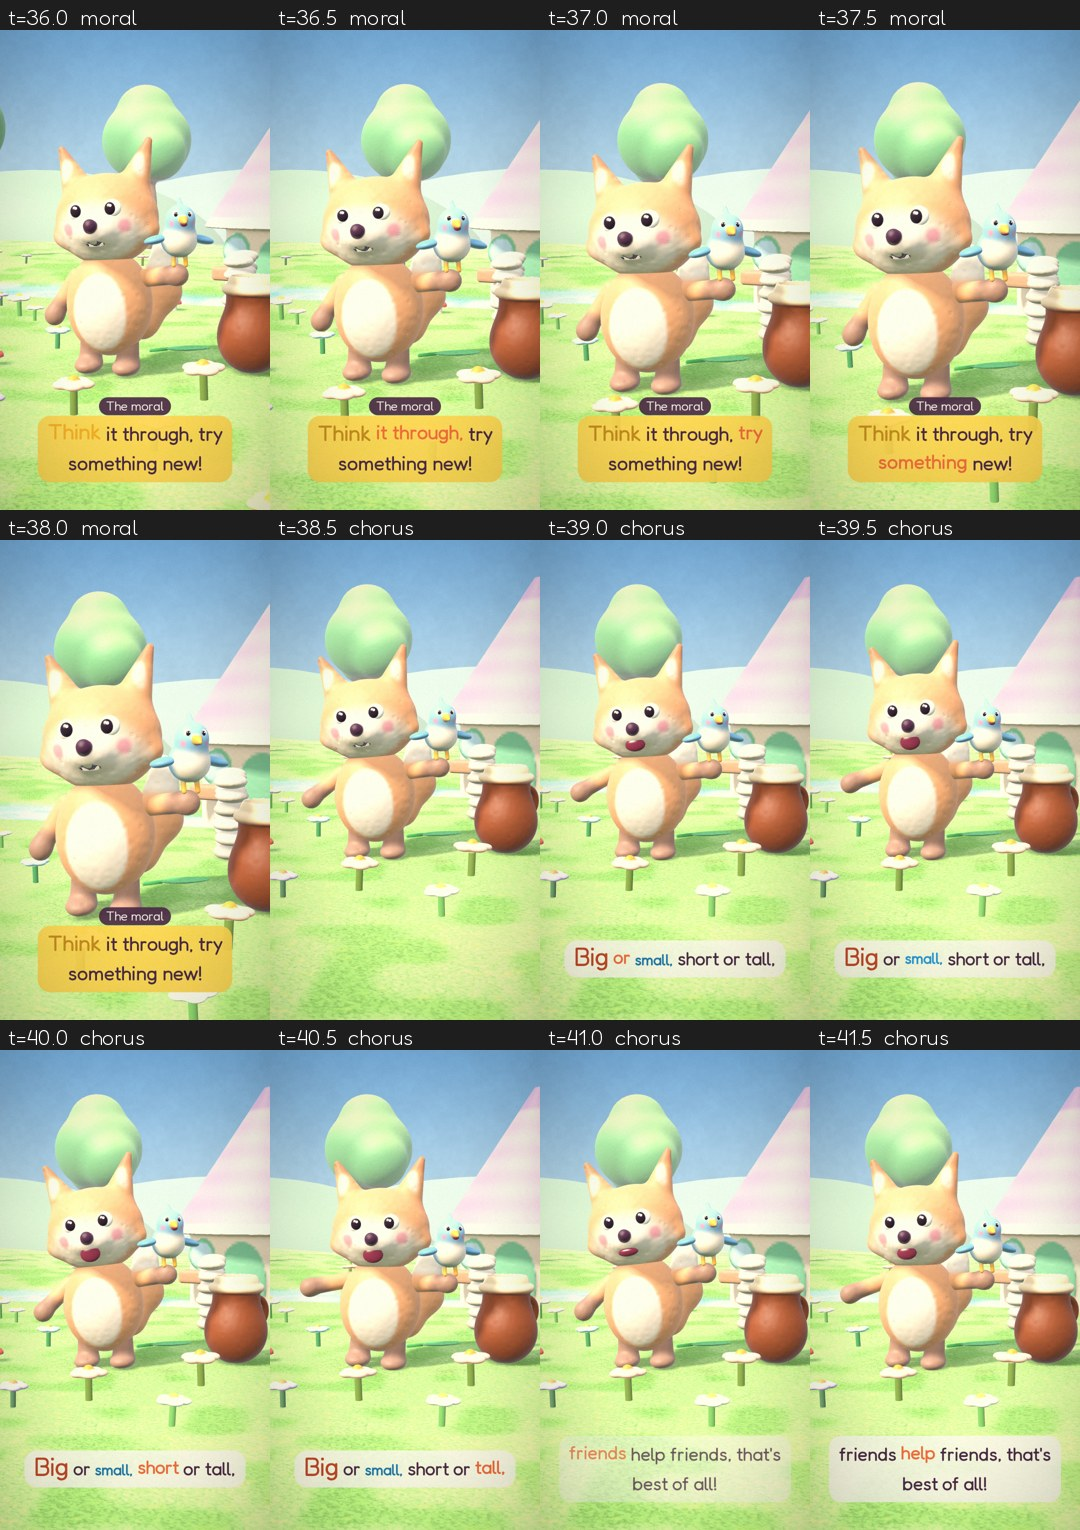
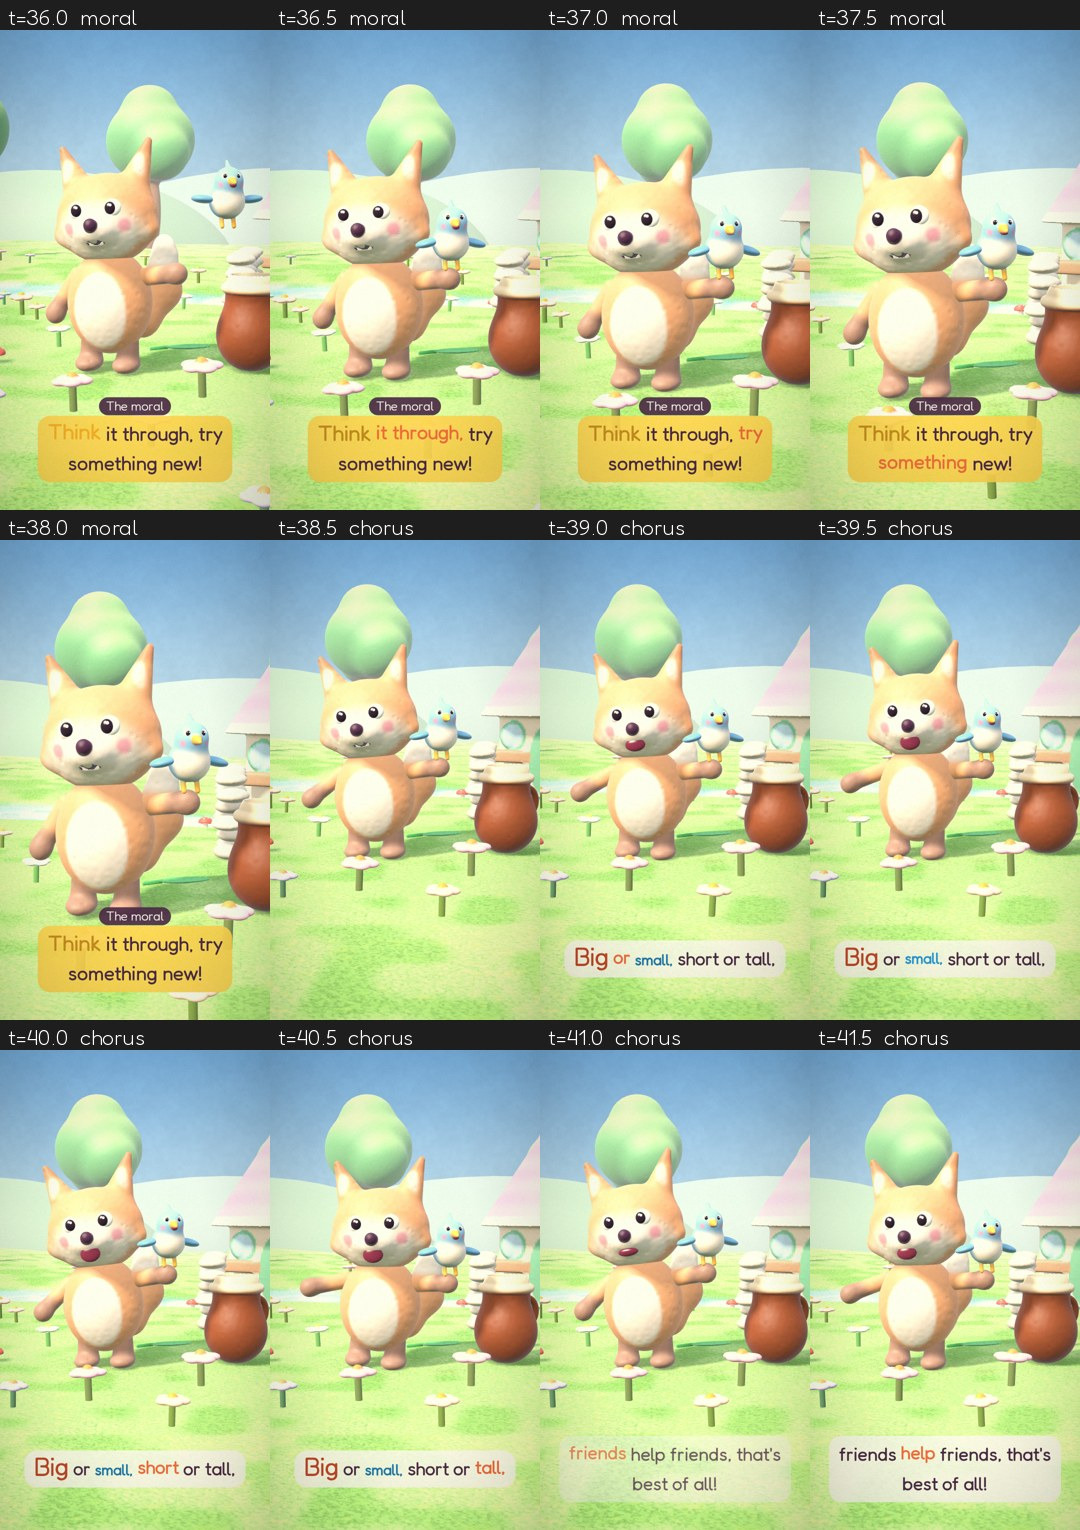
Fable 3: review round 1 fixes (paw-in camera, long stone wall, Pip clear of faces, longer leaf lift and drink, bigger splashes)
Claude-Session: https://claude.ai/code/session_01BFozMBD3P58CaUxgzuKyHS

diff --git a/batches/01-fables-friendship/fable-03-pebble-pebble-plop/code/render.py b/batches/01-fables-friendship/fable-03-pebble-pebble-plop/code/render.py
@@ -20,7 +20,7 @@ for _grp in (FOXP, PIPP, PR, SC, E2, {"w": EYE_W, "p": EYE_P}, {"jug": JUGM}):
 J = (0.55, 0.0)                                            # the tall jug
 JUG_YAW = -2.36                                            # handle at the back right, away from Tumble and the camera
 RIM_R, RIM_Y = 0.245, props_f3.JUG_TOP
-W0, WSTEP = 0.2, 0.12                                      # water level at the start, rise per pebble (5 -> 0.8)
+W0, WSTEP = 0.12, 0.136                                    # water level at the start (deep), rise per pebble (5 -> 0.8)
 PEB_R = 0.07
 def jug_base(): return trans(J[0], ground_h(*J) - 0.01, J[1]) @ roty(JUG_YAW)
 MJ0 = jug_base()
@@ -38,15 +38,15 @@ HOLD = [0.3, 1.25, 0.62]                                   # two-paw hold (kit p
 HOLD_UP = [0.3, 1.5, 0.62]                                 # the same, lifted a little
 LEAF_FWD = 0.59                                            # the leaf sits this far in front of Tumble's feet (paws are at 0.448)
 WALL_X = PICK[0] + 0.76                                   # dry stone wall: its top is where the paws hold the leaf
-WALL_ZS = (LAND[1] + 0.0, LAND[1] - 0.55, LAND[1] - 1.1)
+WALL_ZS = (LAND[1] + 0.0, LAND[1] - 0.55, LAND[1] - 1.1, LAND[1] - 1.65, LAND[1] - 2.2)
 WALL_TOP = 0.96                                            # leaf rests at 0.986: paw 0.894 + PAW_TOP 0.072 + leaf thickness 0.02
 WALL_N = 6
-CT = (WALL_X + 0.9, LAND[1] - 3.2)                         # the cottage behind the wall
+CT = (WALL_X + 1.6, LAND[1] - 4.2)                         # the cottage behind the wall
 TRAY_ARM_LOW, TRAY_ARM_UP = HOLD, HOLD_UP                   # both paws under the leaf: on the wall, then lifted
 CUP_D = 1.3                                               # count shot: jug axis this far in front of Tumble
 CUP_YAW = math.atan2(1.0, 0.35)
 CUP = (J[0] - CUP_D * math.sin(CUP_YAW), J[1] - CUP_D * math.cos(CUP_YAW))
-DRINK_D = 1.4
+DRINK_D = 1.18
 DRINK = (J[0] - DRINK_D * math.sin(CUP_YAW), J[1] - DRINK_D * math.cos(CUP_YAW))
 MSPOT = (TS[0] - 0.35, TS[1] + 0.55)                       # moral and dance spot, the jug at his paw side
 LEAF_REST = (TS[0] + 0.15, TS[1] - 0.55)                   # the empty leaf on the grass after the count
@@ -106,6 +106,7 @@ def tumble(t):
         pant(st, t)
     elif n == "pip_try":                                   # watches Pip, head tilted, still panting
         st["yaw"] = 0.25; st["head"][2] = -0.1; st["head"][1] = 0.25
+        st["x"] = TS[0] - 0.75                              # stands back so the macro on Pip and the mouth has the frame to itself
         L = T.line("Setup B")
         if t > L["t1"]: st["head"][0] = 0.1 * math.sin((t - L["t1"]) * 8) * math.exp(-(t - L["t1"]))
         pant(st, t)
@@ -146,7 +147,7 @@ def tumble(t):
     elif n == "drink":
         st["x"], st["z"] = DRINK; st["yaw"] = CUP_YAW
         lean = ease(clampu(t, T.LAP - 0.45, T.LAP)) * (1 - ease(clampu(t, T.LAP + 0.9, T.LAP + 1.3)))
-        st["pivot"] = 0.15; st["pitch"] = 0.55 * lean; st["y"] += 0.09 * lean; st["head"][0] = 0.1 + 0.1 * lean
+        st["pivot"] = 0.15; st["pitch"] = 0.4 * lean; st["y"] += 0.09 * lean; st["head"][0] = 0.1 + 0.2 * lean
         st["arms"] = [[0.35, 0.3], [0.35, 0.3]]
         st["tongue"] = 1.0 if T.LAP - 0.1 < t < T.LAP + 0.9 else 0.0
         if t > T.LAP + 1.0: st["head"][0] = 0.05
@@ -227,6 +228,15 @@ def rim_far():
         if best is None or p[0] > best[0]: best = p
     return best
 RIM_FAR = rim_far()
+DRINK_CAM_YAW = 12.0                                       # drink camera: from his front-right, high enough to see the tongue meet the water
+def _drink_rim():
+    d = np.array([-math.sin(math.radians(DRINK_CAM_YAW)), 0.0, -math.cos(math.radians(DRINK_CAM_YAW))])   # away from the camera
+    best = None
+    for k in range(72):
+        p = rim_pt(k * 2 * math.pi / 72); s = float(np.dot(p - JC, d))
+        if best is None or s > best[0]: best = (s, p)
+    return best[1]
+RIM_DRINK = RIM_FAR                                       # Pip keeps the far lip, facing Tumble across the mouth
 HOVER_R = np.array([J[0] + 0.62, 1.38, TS[1] + 0.25])    # beside the jug at Tumble's depth, clear of his head
 LEAF_SX, LEAF_SZ = 0.34, 0.27                              # the leaf is 0.7 long and 0.22 wide, a tray for five pebbles
 def _hold_c():
@@ -280,7 +290,7 @@ def pip_state(t, st, mats):
         p = HOVER_R + np.array([0, 0.05 * math.sin(t * 6), 0])
         return p, facing(p, face), True, 0.0, False, ({"cheer": False} if t < T.POP else {"gentle": True})
     if n == "roll_back":                                   # flies to the wall (up, across, down) and points at the pebbles
-        top = np.array([WALL_X + 0.1, WALL_TOP - 0.05 + PIP_FOOT, LAND[1] + 0.34])
+        top = np.array([WALL_X + 0.1, WALL_TOP + 0.04 + PIP_FOOT, LAND[1] - 0.95])
         up1 = HOVER_R + np.array([0, 0.6, 0]); up2 = top + np.array([0, 0.75, 0])
         u = clampu(t, T.ROLL_END, T.IDEA)
         if u < 1:
@@ -295,9 +305,12 @@ def pip_state(t, st, mats):
         sip = 0.0
         d = t - T.SIP
         if 0 <= d < 0.6: sip = 0.55 * math.sin(math.pi * d / 0.6)
-        return RIM_FAR, into, False, sip, True, ({"cheer": True} if t > T.LAP + 0.3 else {})
+        if t > T.SIP + 0.7:                                # done sipping: lifts off the lip so Tumble has the mouth to himself
+            u = ease(clampu(t, T.SIP + 0.7, T.LAP - 0.2)); p = RIM_DRINK + np.array([0.3, 0.55, 0.0]) * u
+            return p, facing(p, JC), True, 0.0, False, {"cheer": True}
+        return RIM_DRINK, facing(RIM_DRINK, JC), False, sip, True, {}
     if n in ("moral", "chorus"):
-        return dance_pip(t, st, mats, n, arrive_from=RIM_FAR)
+        return dance_pip(t, st, mats, n, arrive_from=RIM_DRINK)
     a, b = SH["button_crane"]                              # hops from the paw to the rim and splashes a wing
     p0 = paw_seat(fox_mats_p(tumble(a))[2]); rim = rim_pt_near(p0)
     if t < a + 0.2: return p0, 0.35, False, 0.0, True, {}          # still riding the paw after the cut
@@ -379,23 +392,24 @@ def camera(t):
     if name == "hot_walk":                                 # low tracking alongside the trudge
         st = tumble(t)
         cx = lerp(st["x"], J[0], 0.35)
-        return fit_cam(np.array([cx, 1.1, st["z"] + 0.1]), 50, -6, 1.6, 1.45, lift=0.08)
+        return fit_cam(np.array([cx, 1.1, st["z"] + 0.1]), 35, -6, 2.0, 1.5, lift=0.08)
     if name == "pip_try":                                  # macro, side-on to Pip's beak and the mouth of the jug
         tgt = lerp(RIM_FAR, JC, 0.5) + np.array([0, 0.0, 0])
         return fit_cam(tgt, lerp(10, 2, e), 20, 0.62, 0.62, fov=34, lift=0.12)
     if name == "paw_in":                                   # medium front: the paw goes in, uh-oh
-        return fit_cam(np.array([lerp(TS[0], J[0], 0.7), 1.0, TS[1] + 0.15]), lerp(24, 18, e), lerp(30, 40, e), 1.5, 1.5)   # high three-quarter: the paw goes down into the mouth
+        return fit_cam(np.array([lerp(TS[0], J[0], 0.55), 0.95, TS[1] + 0.2]), lerp(52, 62, e), lerp(48, 42, e), 1.4, 1.4)   # high three-quarter: the paw goes down into the mouth
     if name == "pull":                                     # wide low angle: pull, pull, POP
-        return fit_cam(np.array([lerp(TS[0], J[0], 0.6), 1.0, TS[1] + 0.15]), 20, 30, 1.9, 1.9)
+        return fit_cam(np.array([lerp(TS[0], J[0], 0.55), 1.05, TS[1] + 0.2]), lerp(58, 50, e), 38, 1.8, 1.8)
     if name == "roll_back":                                # wide side: the roll back to the wall
         k = ease(clampu(t, SH["roll_back"][0], T.ROLL_END + 0.3))
-        return fit_cam(np.array([lerp(TS[0] + 0.3, LAND[0] + 0.3, k), 1.1, lerp(TS[1] - 0.4, LAND[1] + 0.1, k)]), 8, 22, lerp(2.3, 1.9, k), lerp(2.0, 1.7, k))
+        k2 = ease(clampu(t, T.ROLL_END + 0.4, T.IDEA + 0.3))
+        return fit_cam(np.array([lerp(TS[0] + 0.3, LAND[0] + 0.3, k) + 0.5 * k2, 1.1, lerp(TS[1] - 0.4, LAND[1] + 0.1, k) - 0.35 * k2]), lerp(8, 30, k2), 22, lerp(2.3, 2.6, k2), lerp(2.0, 2.2, k2))
     if name == "count":                                    # high three-quarter close-up into the jug mouth
         tgt = JC + np.array([0, 0.12, 0]) - np.array([math.sin(CUP_YAW), 0, math.cos(CUP_YAW)]) * 0.18
         return fit_cam(tgt, math.degrees(CUP_YAW) - lerp(28, 18, e), 58, 1.0, 1.0, fov=36, lift=0.1)
     if name == "drink":
-        tgt = lerp(JC, np.array([DRINK[0], 1.0, DRINK[1]]), 0.45)
-        return fit_cam(tgt, math.degrees(CUP_YAW) + 45, 10, 1.1, 1.1, lift=0.1)
+        tgt = lerp(JC, np.array([DRINK[0], 1.0, DRINK[1]]), 0.4)
+        return fit_cam(tgt, DRINK_CAM_YAW, 36, 1.8, 1.5, lift=0.1)
     if name == "moral":
         return fit_cam(np.array([MSPOT[0] + 0.25, lerp(1.35, 1.45, e), MSPOT[1]]), lerp(14, 8, e), 5, lerp(1.3, 1.1, e), lerp(1.4, 1.15, e))
     if name == "chorus":
@@ -420,9 +434,11 @@ def build_draws(t):
     draws, contacts = [], []
     meadow_backdrop(draws, t, cottage=None)
     draws.append((SC["cottage"], trans(CT[0], ground_h(*CT) - 0.05, CT[1]) @ roty(-0.35), U(mat=0, bump=0.6, obj="cottage"), True))
-    for zi, z in enumerate(WALL_ZS):                       # dry stone wall: flat stones, staggered
-        for k in range(WALL_N):
-            x = WALL_X + 0.02 * math.sin(k * 2.1 + zi) * (k < WALL_N - 1); zz = z + 0.03 * math.sin(k * 1.7 + zi * 2) * (k < WALL_N - 1)
+    for k in range(WALL_N):                                # dry stone wall: long, low, staggered courses
+        for zi, z in enumerate(WALL_ZS):
+            if k % 2 == 1 and zi == len(WALL_ZS) - 1: continue
+            zo = z - 0.275 * (k % 2)
+            x = WALL_X + 0.03 * math.sin(k * 2.1 + zi) * (k < WALL_N - 1); zz = zo + 0.03 * math.sin(k * 1.7 + zi * 2) * (k < WALL_N - 1)
             draws.append((SC["stone"], trans(x, ground_h(WALL_X, z) + 0.07 + (WALL_TOP - 0.14) / (WALL_N - 1) * k, zz) @ roty(math.pi / 2 + 0.1 * math.sin(k + zi) * (k < WALL_N - 1)) @ scale(0.85, 1.2, 0.75),
                           U(mat=0, bump=0.9, tint=tuple(c * (0.92 + 0.08 * ((k + zi) % 3)) for c in STONE_T), tintMix=1.0, obj="wall"), True))
     for (x, z, s) in [(CT[0] - 2.0, CT[1] + 1.6, 0.2), (J[0] + 1.3, J[1] - 0.6, 0.16), (MSPOT[0] - 1.3, MSPOT[1] - 0.2, 0.18)]:
@@ -456,7 +472,7 @@ def build_draws(t):
         draws.append((PR["ball"], trans(*p) @ scale(PEB_R, PEB_R * 0.8, PEB_R), U(mat=0, bump=0.4, tint=PEB_TINT[i], tintMix=1.0, obj="pebble"), True))
     for c in T.COUNT:                                      # plop: a splash out of the mouth on every pebble
         _, l2 = n_in(c + 0.22)
-        puff(draws, jw((0, l2 + 0.05, 0)), c + 0.22, t, n=8, size=0.028, spread=0.35, dur=0.45, tint=(0.75, 0.9, 1.0), axis=(0, 0.9, 0))
+        puff(draws, jw((0, l2 + 0.05, 0)), c + 0.22, t, n=14, size=0.05, spread=0.45, dur=0.55, tint=(0.75, 0.9, 1.0), axis=(0, 0.9, 0))
     if T.POP - 0.02 < t < T.POP + 0.5:                       # the cork-pop
         puff(draws, jw((0, RIM_Y + 0.12, 0)), T.POP, t, n=10, size=0.06, spread=0.9, dur=0.45, tint=(1.0, 0.96, 0.85), axis=(0, 0.6, 0.2))
     if n == "button_crane":                                # the wing-splash arcs onto Tumble's nose
@@ -465,8 +481,8 @@ def build_draws(t):
         if 0 < u < 1:
             for j in range(4):
                 q = lerp(JC + np.array([0, 0.05, 0]), nose, u - 0.04 * j); q[1] += 0.45 * math.sin(math.pi * (u - 0.04 * j))
-                draws.append((PR["ball"], trans(*q) @ scale(0.022), U(mat=3, bump=0.0, tint=(0.6, 0.85, 1.0), tintMix=1.0), False))
-        puff(draws, nose, T.SPLASH, t, n=8, size=0.025, spread=0.5, dur=0.4, tint=(0.7, 0.9, 1.0), axis=(0, 0.3, 0.3))
+                draws.append((PR["ball"], trans(*q) @ scale(0.05), U(mat=3, bump=0.0, tint=(0.6, 0.85, 1.0), tintMix=1.0), False))
+        puff(draws, nose, T.SPLASH, t, n=16, size=0.06, spread=0.7, dur=0.55, tint=(0.7, 0.9, 1.0), axis=(0, 0.3, 0.3))
     return draws, contacts
 
 # ---------------- hot-day grade ----------------

diff --git a/batches/01-fables-friendship/fable-03-pebble-pebble-plop/code/timeline.py b/batches/01-fables-friendship/fable-03-pebble-pebble-plop/code/timeline.py
@@ -98,10 +98,11 @@ COUNT = [(word_times(w, "Twist") or [_tw[0] + 1.2 + 0.6 * k])[0] for k, w in enu
 HOOK_SPLIT = _clip(_h[0] + 1.9, 1.4, _h[1] - 1.4)                     # Pip peering in, then the look down the neck
 PB_SPLIT = _clip(POP + 0.35, _pb[0] + 1.4, _pb[1] - 3.0)              # the pull and the pop, then the backward roll
 TW_SPLIT = COUNT[-1] + 0.55                                           # the counting drops (last plop on 'five'), then the drink
-MORAL_CUT = (word_times('think', 'Moral') or [_m[0] + 1.0])[0] - 0.45   # moral shot starts just before the sung 'Think'
+COUNT_CUT = (word_times('pebbles', 'Twist') or [_tw[0] + 2.0])[0] - 1.1       # leaf lift stays on screen until just before 'Pebbles in!'
+MORAL_CUT = (word_times('think', 'Moral') or [_m[0] + 1.0])[0] - 0.15   # moral shot starts just before the sung 'Think'
 SHOTS = [(0.0, HOOK_SPLIT, "hook_peer"), (HOOK_SPLIT, _h[1], "hook_pov"), (_s[0], _s[1], "title_wide"),
          (_sa[0], _sa[1], "hot_walk"), (_sb[0], _sb[1], "pip_try"), (_pa[0], _pa[1], "paw_in"),
-         (_pb[0], PB_SPLIT, "pull"), (PB_SPLIT, _pb[1], "roll_back"), (_tw[0], TW_SPLIT, "count"),
+         (_pb[0], PB_SPLIT, "pull"), (PB_SPLIT, COUNT_CUT, "roll_back"), (COUNT_CUT, TW_SPLIT, "count"),
          (TW_SPLIT, MORAL_CUT, "drink"), (MORAL_CUT, _m[1], "moral"), (_c[0], _c[1], "chorus"), (_bt[0], DURATION + 0.1, "button_crane")]
 def shot_at(t):
     for i, (a, b, n) in enumerate(SHOTS):
@@ -112,7 +113,7 @@ ROLL_END = POP + 1.25                         # backward somersault, lands on hi
 IDEA = max(ROLL_END + 0.3, _pb[1] - 2.0)      # Pip lands by the pebbles and points
 SCOOP = IDEA + 0.75                           # Tumble scoops five pebbles into his paws
 FULL = COUNT[-1] + 0.45                       # the water reaches the top
-SIP = TW_SPLIT + 0.25                         # Pip sips from the brim
+SIP = TW_SPLIT + 0.1                         # Pip sips from the brim
 LAP = TW_SPLIT + 0.9                          # Tumble's tongue reaches it too
 SPLASH = _bt[0] + 0.75                        # button: Pip's wing-splash lands on Tumble's nose
 HIGH_FIVE = _c[1] - 0.9
